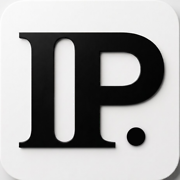
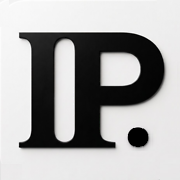
Playing with preview images

diff --git a/index.html b/index.html
@@ -32,7 +32,7 @@
 	  center, or pick the firs t. Width/height so the
 	  first share can render without waiting on the image fetch:
 	  https://developers.facebook.com/documentation/sharing/webmasters/faq.md -->
-	<meta property="og:image" content="https://ivanpopov.pro/static/img/about/og-image-wide.jpg" />
+	<meta property="og:image" content="https://ivanpopov.pro/static/img/about/og-image-wide-bw.jpg" />
 	<meta property="og:image:type" content="image/jpeg" />
 	<meta property="og:image:width" content="1200" />
 	<meta property="og:image:height" content="630" />
@@ -48,7 +48,7 @@
 	<meta name="twitter:card" content="summary_large_image">
 	<meta name="twitter:title" content="IT&#8209;эксперт">
 	<meta name="twitter:description" content="⬩ Локальный AI ⬩&nbsp;Кибербез ⬩&nbsp;E&#8209;commerce">
-	<meta name="twitter:image" content="https://ivanpopov.pro/static/img/about/og-image-wide.jpg">
+	<meta name="twitter:image" content="https://ivanpopov.pro/static/img/about/og-image-wide-bw.jpg">
 	<meta name="twitter:image:alt" content="Иван Попов, IT&#8209;эксперт">
 
 	<!-- JSON-LD: Google / Bing rich results (not link-preview cards) -->
